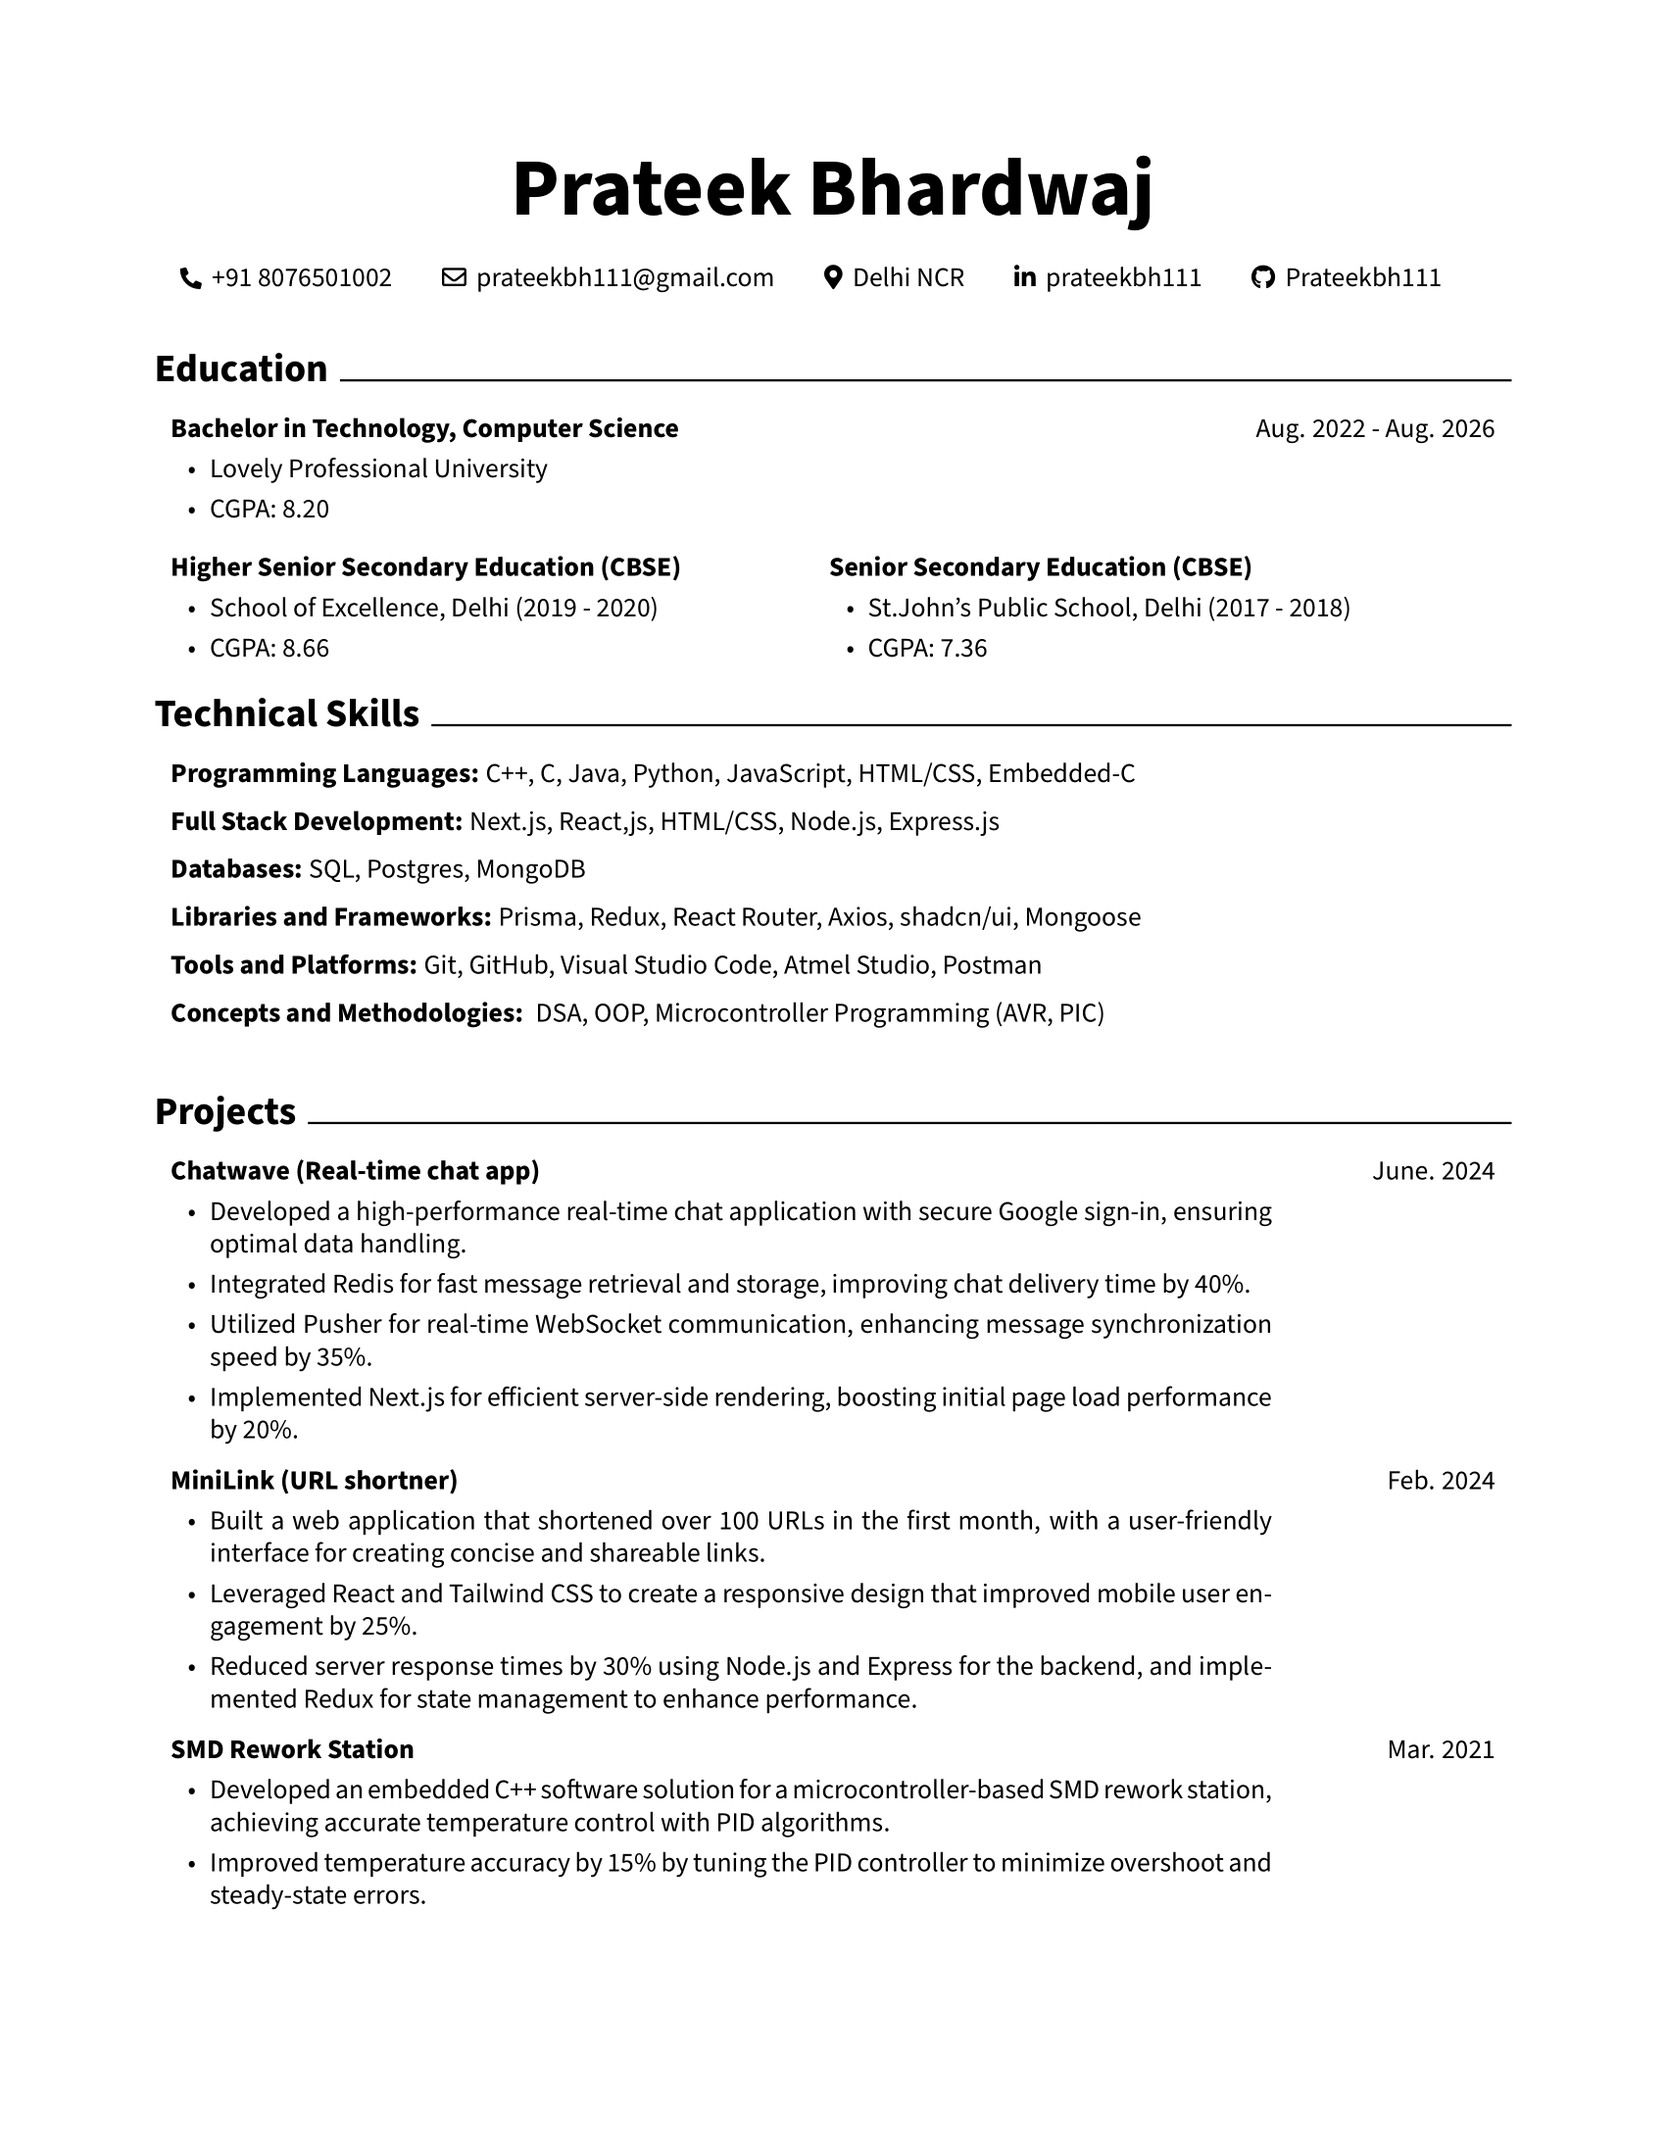
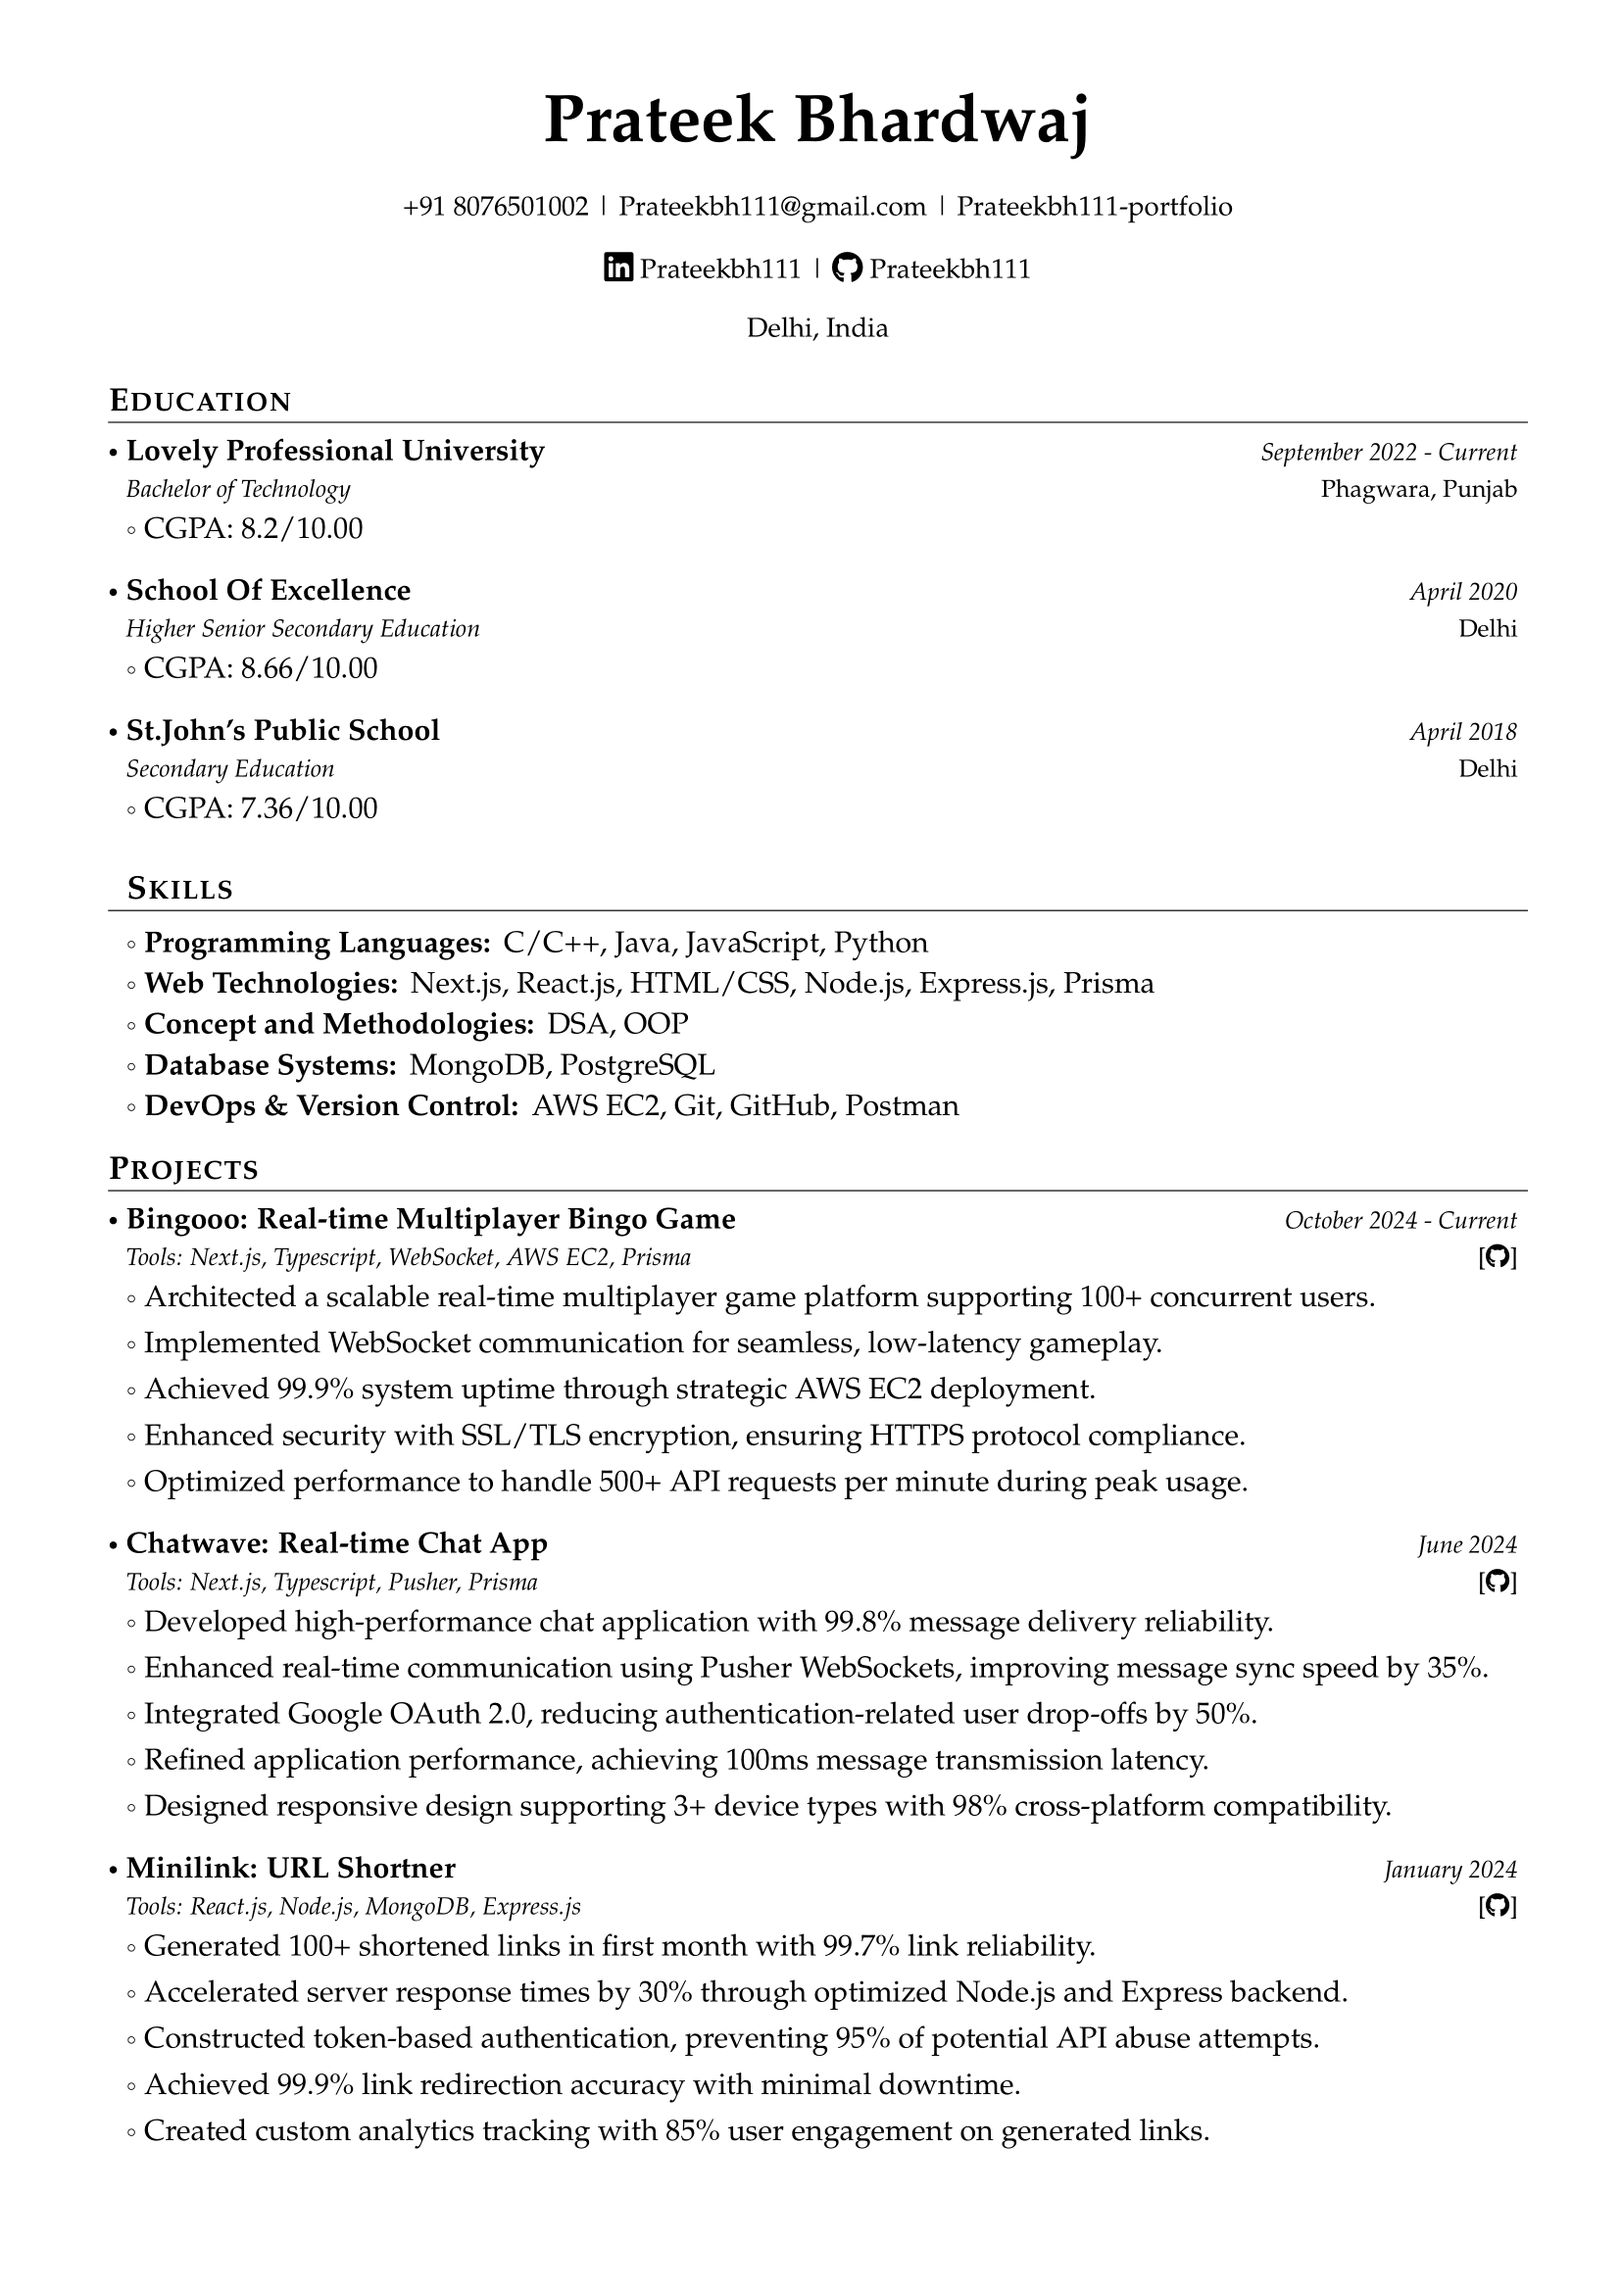
added new projects

diff --git a/src/components/Navbar.tsx b/src/components/Navbar.tsx
@@ -23,12 +23,12 @@ export default function Navbar({ className }: { className?: string }) {
 			let direction = current! - scrollYProgress.getPrevious()!;
 
 			if (scrollYProgress.get() < 0.05) {
-				setVisible(false);
+				setVisible(true);
 			} else {
 				if (direction < 0) {
 					setVisible(true);
 				} else {
-					setVisible(false);
+					setVisible(true);
 				}
 			}
 		}
@@ -63,30 +63,24 @@ export default function Navbar({ className }: { className?: string }) {
 					<MenuItem setActive={setActive} active={active} item="Projects">
 						<div className="text-sm grid grid-cols-2 gap-5">
 							<ProductItem
-								title="Chatwave 2.0"
-								href="https://prateekbh111-chatwave.vercel.app/"
-								src="/ChatWave2.0.png"
-								description="A Real-time chat application built using Next.js, Pusher and Redis"
+								title="Bingooo.site"
+								href="https://bingooo.site"
+								src="/Bingo.png"
+								description="A Real-time Multiplayer game platfrom using Next.js, websocket hosted on AWS EC2"
 								isLive
 							/>
-
 							<ProductItem
-								title="Auth App"
-								href="https://github.com/Prateekbh111/next-auth-app"
-								src="/AuthApp.png"
-								description="Next.js user authentication project with Nodemailer integration!"
+								title="Chatwave"
+								href="https://prateekbh111-chatwave.vercel.app/"
+								src="/ChatWave.png"
+								description="A Real-time chat application built using Next.js, Pusher and Redis"
+								isLive
 							/>
 							<ProductItem
 								title="MiniLink"
 								href="https://github.com/Prateekbh111/Minilink"
 								src="/MiniLink.png"
 								description="A Web application that transform URLs into concise and shareable links."
-							/>
-							<ProductItem
-								title="Chatwave"
-								href="https://github.com/Prateekbh111/Chatwave"
-								src="/ChatWave.png"
-								description="A Real-time chat application built using Next.js, Pusher and Redis"
 							/>
 						</div>
 					</MenuItem>

diff --git a/src/components/Resume.tsx b/src/components/Resume.tsx
@@ -19,7 +19,7 @@ export default function Resume() {
 			>
 				<Link
 					href={
-						"https://drive.google.com/file/d/1bK2iirRFy79Y2yhpbcVf-lPvJsWgR6wB/view?usp=sharing"
+						"https://drive.google.com/file/d/1GO_e_zbCtiCnnkiLLuV-FRgnYNsoC6Gv/view?usp=sharing"
 					}
 					target="_blank"
 				>
